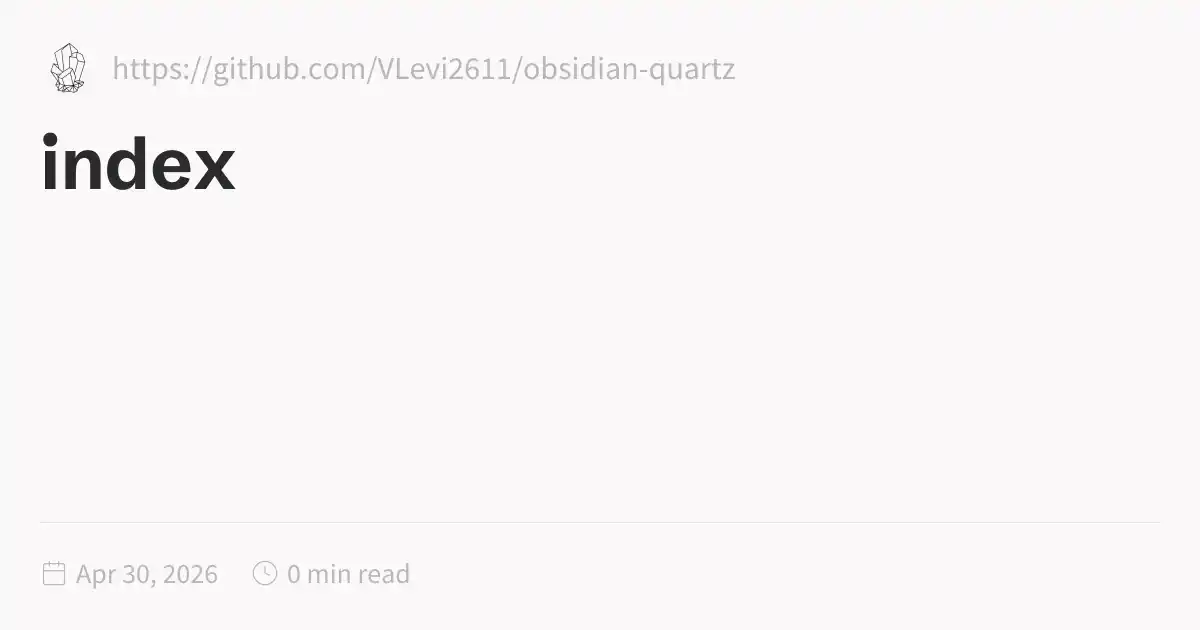
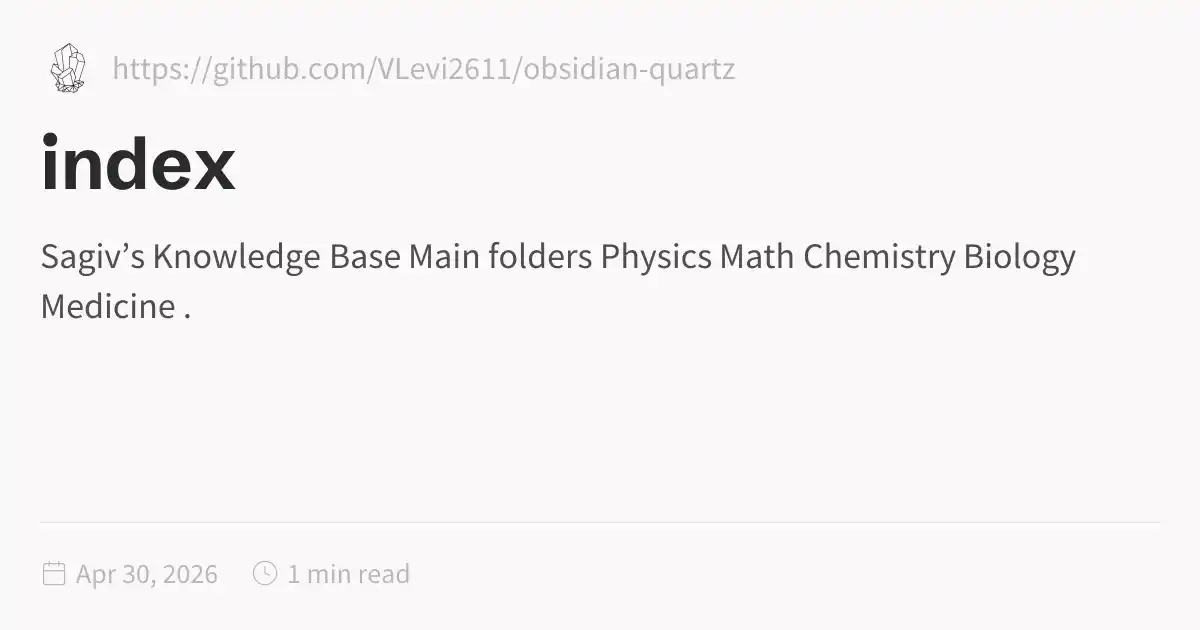
deploy: 0eaccfda35ec708e165ef315cbe621d9f48ba89d

Changed region(s): [[0.0308, 0.3921, 0.8942, 0.5127]]

diff --git a/index.html b/index.html
@@ -1,5 +1,5 @@
 <!DOCTYPE html>
-<html lang="en" dir="ltr"><head><title>index</title><meta charset="utf-8"/><link rel="preconnect" href="https://fonts.googleapis.com"/><link rel="preconnect" href="https://fonts.gstatic.com"/><link rel="stylesheet" href="https://fonts.googleapis.com/css2?family=Schibsted Grotesk:wght@400;700&amp;family=Source Sans Pro:ital,wght@0,400;0,600;1,400;1,600&amp;family=IBM Plex Mono:wght@400;600&amp;display=swap"/><link rel="preconnect" href="https://cdnjs.cloudflare.com" crossorigin="anonymous"/><meta name="viewport" content="width=device-width, initial-scale=1.0"/><meta name="og:site_name" content="Quartz 4"/><meta property="og:title" content="index"/><meta property="og:type" content="website"/><meta name="twitter:card" content="summary_large_image"/><meta name="twitter:title" content="index"/><meta name="twitter:description" content/><meta property="og:description" content/><meta property="og:image:alt" content/><meta property="twitter:domain" content="https://github.com/VLevi2611/obsidian-quartz"/><meta property="og:url" content="https://https//github.com/VLevi2611/obsidian-quartz/index"/><meta property="twitter:url" content="https://https//github.com/VLevi2611/obsidian-quartz/index"/><link rel="icon" href="./static/icon.png"/><meta name="description" content/><meta name="generator" content="Quartz"/><link href="./index.css" rel="stylesheet" type="text/css" data-persist="true"/><style>.expand-button {
+<html lang="en" dir="ltr"><head><title>index</title><meta charset="utf-8"/><link rel="preconnect" href="https://fonts.googleapis.com"/><link rel="preconnect" href="https://fonts.gstatic.com"/><link rel="stylesheet" href="https://fonts.googleapis.com/css2?family=Schibsted Grotesk:wght@400;700&amp;family=Source Sans Pro:ital,wght@0,400;0,600;1,400;1,600&amp;family=IBM Plex Mono:wght@400;600&amp;display=swap"/><link rel="preconnect" href="https://cdnjs.cloudflare.com" crossorigin="anonymous"/><meta name="viewport" content="width=device-width, initial-scale=1.0"/><meta name="og:site_name" content="Quartz 4"/><meta property="og:title" content="index"/><meta property="og:type" content="website"/><meta name="twitter:card" content="summary_large_image"/><meta name="twitter:title" content="index"/><meta name="twitter:description" content="Sagiv’s Knowledge Base Main folders Physics Math Chemistry Biology Medicine ."/><meta property="og:description" content="Sagiv’s Knowledge Base Main folders Physics Math Chemistry Biology Medicine ."/><meta property="og:image:alt" content="Sagiv’s Knowledge Base Main folders Physics Math Chemistry Biology Medicine ."/><meta property="twitter:domain" content="https://github.com/VLevi2611/obsidian-quartz"/><meta property="og:url" content="https://https//github.com/VLevi2611/obsidian-quartz/index"/><meta property="twitter:url" content="https://https//github.com/VLevi2611/obsidian-quartz/index"/><link rel="icon" href="./static/icon.png"/><meta name="description" content="Sagiv’s Knowledge Base Main folders Physics Math Chemistry Biology Medicine ."/><meta name="generator" content="Quartz"/><link href="./index.css" rel="stylesheet" type="text/css" data-persist="true"/><style>.expand-button {
   position: absolute;
   display: flex;
   float: right;
@@ -115,7 +115,15 @@ pre:hover > .expand-button {
   padding: 0 12px;
   font-size: 14px;
 }
[2 lines of base64/hex data omitted]
+<h2 id="main-folders">Main folders<a role="anchor" aria-hidden="true" tabindex="-1" data-no-popover="true" href="#main-folders" class="internal"><svg width="18" height="18" viewBox="0 0 24 24" fill="none" stroke="currentColor" stroke-width="2" stroke-linecap="round" stroke-linejoin="round"><path d="M10 13a5 5 0 0 0 7.54.54l3-3a5 5 0 0 0-7.07-7.07l-1.72 1.71"></path><path d="M14 11a5 5 0 0 0-7.54-.54l-3 3a5 5 0 0 0 7.07 7.07l1.71-1.71"></path></svg></a></h2>
+<ul>
+<li><a href="./Physics" class="internal" data-slug="Physics">Physics</a></li>
+<li><a href="./Math" class="internal" data-slug="Math">Math</a></li>
+<li><a href="./Chemistry" class="internal" data-slug="Chemistry">Chemistry</a></li>
+<li><a href="./Biology" class="internal" data-slug="Biology">Biology</a></li>
+<li><a href="./Medicine" class="internal" data-slug="Medicine">Medicine</a></li>
+</ul></article><hr/><div class="page-footer"></div></div><div class="right sidebar"><div class="graph"><h3>Graph View</h3><div class="graph-outer"><div class="graph-container" data-cfg="{&quot;drag&quot;:true,&quot;zoom&quot;:true,&quot;depth&quot;:1,&quot;scale&quot;:1.1,&quot;repelForce&quot;:0.5,&quot;centerForce&quot;:0.3,&quot;linkDistance&quot;:30,&quot;fontSize&quot;:0.6,&quot;opacityScale&quot;:1,&quot;showTags&quot;:true,&quot;removeTags&quot;:[],&quot;focusOnHover&quot;:false,&quot;enableRadial&quot;:false}"></div><button class="global-graph-icon" aria-label="Global Graph"><svg version="1.1" xmlns="http://www.w3.org/2000/svg" xmlns:xlink="http://www.w3.org/1999/xlink" x="0px" y="0px" viewBox="0 0 55 55" fill="currentColor" xml:space="preserve"><path d="M49,0c-3.309,0-6,2.691-6,6c0,1.035,0.263,2.009,0.726,2.86l-9.829,9.829C32.542,17.634,30.846,17,29,17
                 s-3.542,0.634-4.898,1.688l-7.669-7.669C16.785,10.424,17,9.74,17,9c0-2.206-1.794-4-4-4S9,6.794,9,9s1.794,4,4,4
                 c0.74,0,1.424-0.215,2.019-0.567l7.669,7.669C21.634,21.458,21,23.154,21,25s0.634,3.542,1.688,4.897L10.024,42.562
                 C8.958,41.595,7.549,41,6,41c-3.309,0-6,2.691-6,6s2.691,6,6,6s6-2.691,6-6c0-1.035-0.263-2.009-0.726-2.86l12.829-12.829
@@ -125,6 +133,6 @@ pre:hover > .expand-button {
                 C46.042,11.405,47.451,12,49,12c3.309,0,6-2.691,6-6S52.309,0,49,0z M11,9c0-1.103,0.897-2,2-2s2,0.897,2,2s-0.897,2-2,2
                 S11,10.103,11,9z M6,51c-2.206,0-4-1.794-4-4s1.794-4,4-4s4,1.794,4,4S8.206,51,6,51z M33,49c0,2.206-1.794,4-4,4s-4-1.794-4-4
                 s1.794-4,4-4S33,46.794,33,49z M29,31c-3.309,0-6-2.691-6-6s2.691-6,6-6s6,2.691,6,6S32.309,31,29,31z M47,41c0,1.103-0.897,2-2,2
-                s-2-0.897-2-2s0.897-2,2-2S47,39.897,47,41z M49,10c-2.206,0-4-1.794-4-4s1.794-4,4-4s4,1.794,4,4S51.206,10,49,10z"></path></svg></button></div><div class="global-graph-outer"><div class="global-graph-container" data-cfg="{&quot;drag&quot;:true,&quot;zoom&quot;:true,&quot;depth&quot;:-1,&quot;scale&quot;:0.9,&quot;repelForce&quot;:0.5,&quot;centerForce&quot;:0.2,&quot;linkDistance&quot;:30,&quot;fontSize&quot;:0.6,&quot;opacityScale&quot;:1,&quot;showTags&quot;:true,&quot;removeTags&quot;:[],&quot;focusOnHover&quot;:true,&quot;enableRadial&quot;:true}"></div></div></div></div><footer class><p>Created with <a href="https://quartz.jzhao.xyz/">Quartz v4.5.2</a> © 2026</p><ul><li><a href="https://github.com/jackyzha0/quartz">GitHub</a></li><li><a href="https://discord.gg/cRFFHYye7t">Discord Community</a></li></ul></footer></div></div></body><script type="application/javascript" data-persist="true">function n(){let t=this.parentElement;t.classList.toggle("is-collapsed");let e=t.getElementsByClassName("callout-content")[0];if(!e)return;let l=t.classList.contains("is-collapsed");e.style.gridTemplateRows=l?"0fr":"1fr"}function c(){let t=document.getElementsByClassName("callout is-collapsible");for(let e of t){let l=e.getElementsByClassName("callout-title")[0],s=e.getElementsByClassName("callout-content")[0];if(!l||!s)continue;l.addEventListener("click",n),window.addCleanup(()=>l.removeEventListener("click",n));let o=e.classList.contains("is-collapsed");s.style.gridTemplateRows=o?"0fr":"1fr"}}document.addEventListener("nav",c);
+                s-2-0.897-2-2s0.897-2,2-2S47,39.897,47,41z M49,10c-2.206,0-4-1.794-4-4s1.794-4,4-4s4,1.794,4,4S51.206,10,49,10z"></path></svg></button></div><div class="global-graph-outer"><div class="global-graph-container" data-cfg="{&quot;drag&quot;:true,&quot;zoom&quot;:true,&quot;depth&quot;:-1,&quot;scale&quot;:0.9,&quot;repelForce&quot;:0.5,&quot;centerForce&quot;:0.2,&quot;linkDistance&quot;:30,&quot;fontSize&quot;:0.6,&quot;opacityScale&quot;:1,&quot;showTags&quot;:true,&quot;removeTags&quot;:[],&quot;focusOnHover&quot;:true,&quot;enableRadial&quot;:true}"></div></div></div><div class="toc desktop-only"><button type="button" class="toc-header" aria-controls="toc-0" aria-expanded="true"><h3>Table of Contents</h3><svg xmlns="http://www.w3.org/2000/svg" width="24" height="24" viewBox="0 0 24 24" fill="none" stroke="currentColor" stroke-width="2" stroke-linecap="round" stroke-linejoin="round" class="fold"><polyline points="6 9 12 15 18 9"></polyline></svg></button><ul id="list-1" class="toc-content overflow"><li class="depth-0"><a href="#sagivs-knowledge-base" data-for="sagivs-knowledge-base">Sagiv’s Knowledge Base</a></li><li class="depth-1"><a href="#main-folders" data-for="main-folders">Main folders</a></li><li class="overflow-end"></li></ul></div></div><footer class><p>Created with <a href="https://quartz.jzhao.xyz/">Quartz v4.5.2</a> © 2026</p><ul><li><a href="https://github.com/jackyzha0/quartz">GitHub</a></li><li><a href="https://discord.gg/cRFFHYye7t">Discord Community</a></li></ul></footer></div></div></body><script type="application/javascript" data-persist="true">function n(){let t=this.parentElement;t.classList.toggle("is-collapsed");let e=t.getElementsByClassName("callout-content")[0];if(!e)return;let l=t.classList.contains("is-collapsed");e.style.gridTemplateRows=l?"0fr":"1fr"}function c(){let t=document.getElementsByClassName("callout is-collapsible");for(let e of t){let l=e.getElementsByClassName("callout-title")[0],s=e.getElementsByClassName("callout-content")[0];if(!l||!s)continue;l.addEventListener("click",n),window.addCleanup(()=>l.removeEventListener("click",n));let o=e.classList.contains("is-collapsed");s.style.gridTemplateRows=o?"0fr":"1fr"}}document.addEventListener("nav",c);
 </script><script type="module" data-persist="true">function E(a,e){if(!a)return;function t(o){o.target===this&&(o.preventDefault(),o.stopPropagation(),e())}function n(o){o.key.startsWith("Esc")&&(o.preventDefault(),e())}a?.addEventListener("click",t),window.addCleanup(()=>a?.removeEventListener("click",t)),document.addEventListener("keydown",n),window.addCleanup(()=>document.removeEventListener("keydown",n))}function f(a){for(;a.firstChild;)a.removeChild(a.firstChild)}var m=class{constructor(e,t){this.container=e;this.content=t;this.setupEventListeners(),this.setupNavigationControls(),this.resetTransform()}isDragging=!1;startPan={x:0,y:0};currentPan={x:0,y:0};scale=1;MIN_SCALE=.5;MAX_SCALE=3;cleanups=[];setupEventListeners(){let e=this.onMouseDown.bind(this),t=this.onMouseMove.bind(this),n=this.onMouseUp.bind(this),o=this.onTouchStart.bind(this),r=this.onTouchMove.bind(this),i=this.onTouchEnd.bind(this),s=this.resetTransform.bind(this);this.container.addEventListener("mousedown",e),document.addEventListener("mousemove",t),document.addEventListener("mouseup",n),this.container.addEventListener("touchstart",o,{passive:!1}),document.addEventListener("touchmove",r,{passive:!1}),document.addEventListener("touchend",i),window.addEventListener("resize",s),this.cleanups.push(()=>this.container.removeEventListener("mousedown",e),()=>document.removeEventListener("mousemove",t),()=>document.removeEventListener("mouseup",n),()=>this.container.removeEventListener("touchstart",o),()=>document.removeEventListener("touchmove",r),()=>document.removeEventListener("touchend",i),()=>window.removeEventListener("resize",s))}cleanup(){for(let e of this.cleanups)e()}setupNavigationControls(){let e=document.createElement("div");e.className="mermaid-controls";let t=this.createButton("+",()=>this.zoom(.1)),n=this.createButton("-",()=>this.zoom(-.1)),o=this.createButton("Reset",()=>this.resetTransform());e.appendChild(n),e.appendChild(o),e.appendChild(t),this.container.appendChild(e)}createButton(e,t){let n=document.createElement("button");return n.textContent=e,n.className="mermaid-control-button",n.addEventListener("click",t),window.addCleanup(()=>n.removeEventListener("click",t)),n}onMouseDown(e){e.button===0&&(this.isDragging=!0,this.startPan={x:e.clientX-this.currentPan.x,y:e.clientY-this.currentPan.y},this.container.style.cursor="grabbing")}onMouseMove(e){this.isDragging&&(e.preventDefault(),this.currentPan={x:e.clientX-this.startPan.x,y:e.clientY-this.startPan.y},this.updateTransform())}onMouseUp(){this.isDragging=!1,this.container.style.cursor="grab"}onTouchStart(e){if(e.touches.length!==1)return;this.isDragging=!0;let t=e.touches[0];this.startPan={x:t.clientX-this.currentPan.x,y:t.clientY-this.currentPan.y}}onTouchMove(e){if(!this.isDragging||e.touches.length!==1)return;e.preventDefault();let t=e.touches[0];this.currentPan={x:t.clientX-this.startPan.x,y:t.clientY-this.startPan.y},this.updateTransform()}onTouchEnd(){this.isDragging=!1}zoom(e){let t=Math.min(Math.max(this.scale+e,this.MIN_SCALE),this.MAX_SCALE),n=this.content.getBoundingClientRect(),o=n.width/2,r=n.height/2,i=t-this.scale;this.currentPan.x-=o*i,this.currentPan.y-=r*i,this.scale=t,this.updateTransform()}updateTransform(){this.content.style.transform=`translate(${this.currentPan.x}px, ${this.currentPan.y}px) scale(${this.scale})`}resetTransform(){let t=this.content.querySelector("svg").getBoundingClientRect(),n=t.width/this.scale,o=t.height/this.scale;this.scale=1,this.currentPan={x:(this.container.clientWidth-n)/2,y:(this.container.clientHeight-o)/2},this.updateTransform()}},T=["--secondary","--tertiary","--gray","--light","--lightgray","--highlight","--dark","--darkgray","--codeFont"],y;document.addEventListener("nav",async()=>{let e=document.querySelector(".center").querySelectorAll("code.mermaid");if(e.length===0)return;y||=await import("https://cdnjs.cloudflare.com/ajax/libs/mermaid/11.4.0/mermaid.esm.min.mjs");let t=y.default,n=new WeakMap;for(let r of e)n.set(r,r.innerText);async function o(){for(let s of e){s.removeAttribute("data-processed");let c=n.get(s);c&&(s.innerHTML=c)}let r=T.reduce((s,c)=>(s[c]=window.getComputedStyle(document.documentElement).getPropertyValue(c),s),{}),i=document.documentElement.getAttribute("saved-theme")==="dark";t.initialize({startOnLoad:!1,securityLevel:"loose",theme:i?"dark":"base",themeVariables:{fontFamily:r["--codeFont"],primaryColor:r["--light"],primaryTextColor:r["--darkgray"],primaryBorderColor:r["--tertiary"],lineColor:r["--darkgray"],secondaryColor:r["--secondary"],tertiaryColor:r["--tertiary"],clusterBkg:r["--light"],edgeLabelBackground:r["--highlight"]}}),await t.run({nodes:e})}await o(),document.addEventListener("themechange",o),window.addCleanup(()=>document.removeEventListener("themechange",o));for(let r=0;r<e.length;r++){let v=function(){let g=l.querySelector("#mermaid-space"),h=l.querySelector(".mermaid-content");if(!h)return;f(h);let w=i.querySelector("svg").cloneNode(!0);h.appendChild(w),l.classList.add("active"),g.style.cursor="grab",u=new m(g,h)},M=function(){l.classList.remove("active"),u?.cleanup(),u=null},i=e[r],s=i.parentElement,c=s.querySelector(".clipboard-button"),d=s.querySelector(".expand-button"),p=window.getComputedStyle(c),L=c.offsetWidth+parseFloat(p.marginLeft||"0")+parseFloat(p.marginRight||"0");d.style.right=`calc(${L}px + 0.3rem)`,s.prepend(d);let l=s.querySelector("#mermaid-container");if(!l)return;let u=null;d.addEventListener("click",v),E(l,M),window.addCleanup(()=>{u?.cleanup(),d.removeEventListener("click",v)})}});
 </script><script src="https://cdn.jsdelivr.net/npm/katex@0.16.11/dist/contrib/copy-tex.min.js" type="application/javascript" data-persist="true"></script><script src="./postscript.js" type="module" data-persist="true"></script></html>
